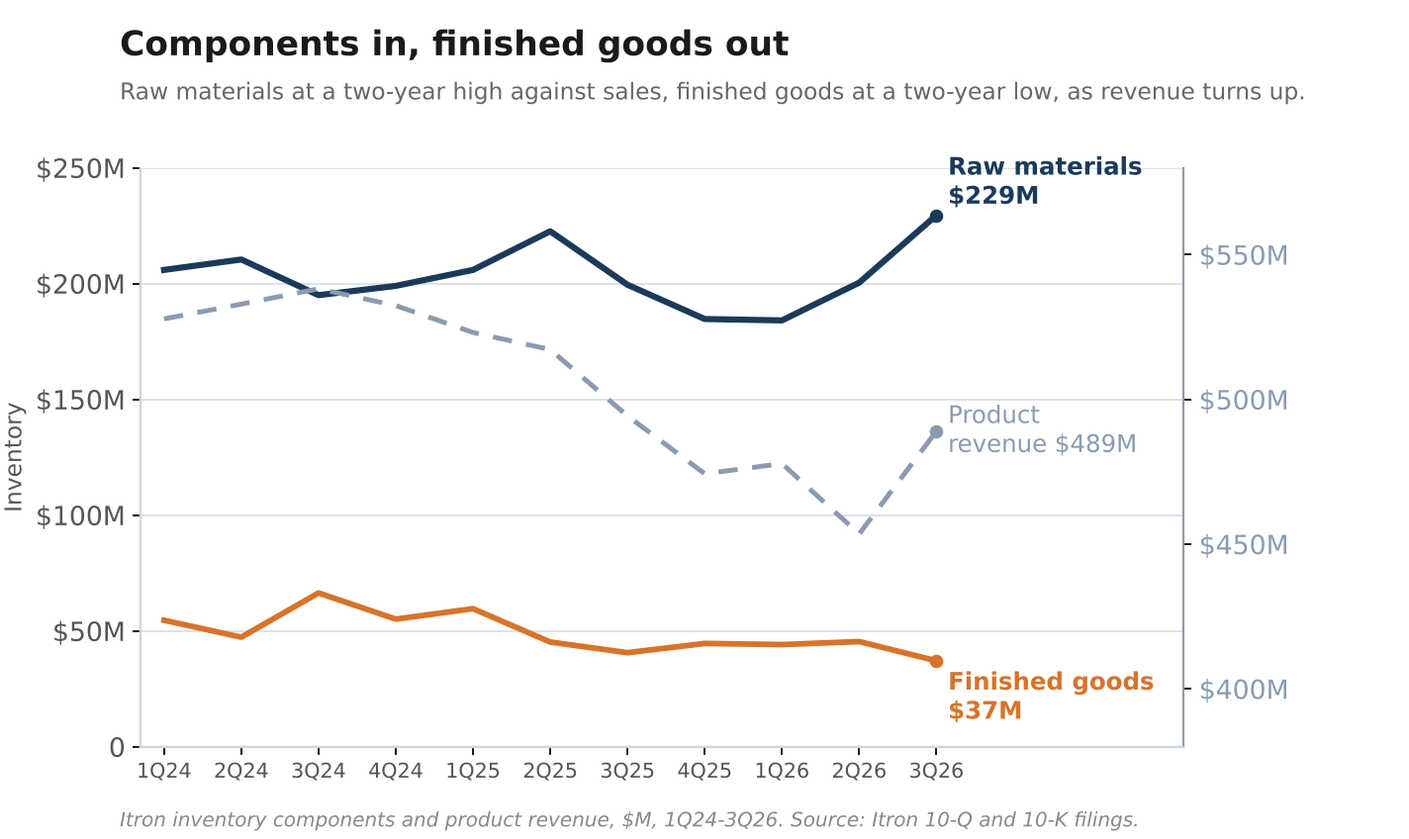
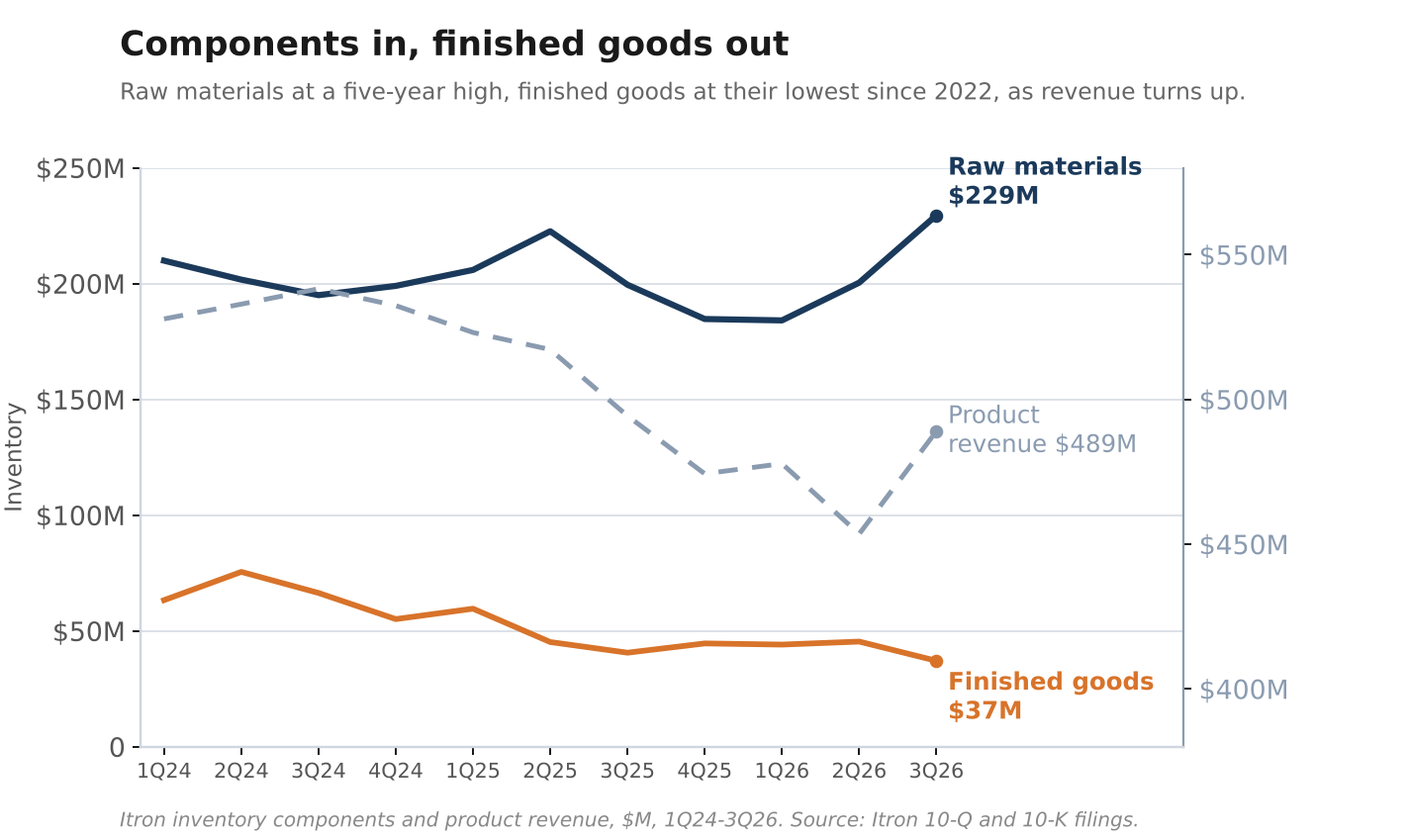
Fix factual errors and show the math in Q3 2026 reaction draft
Corrects data errors flagged against the updated FS model and makes the
quantitative claims reproducible:

- Bookings: drop the false "third-quarter record" ($487M in 3Q24, $578M
  in 3Q22 were higher); keep +27% YoY off last year's $380M.
- Q4 revenue guide $628M is the largest quarterly revenue in the dataset
  (prior peak $615M, 3Q24), not a mere recovery to mid-2025 levels.
- Finished goods $37M: lowest since 2022 (last sub-$37M was 3Q22's $35M),
  not a two-year low; note the eight-quarter revenue ramp that followed.
- Raw materials $229M: a five-year high (series max), not a two-year high.
- Q4'25 pairing: $2.46 non-GAAP EPS with 19.8% non-GAAP net margin (was
  mislabeled 17.8%, the GAAP figure).
- Margin bridge: show the weighting (Networked ~165bps, Device ~80,
  Outcomes ~15 = ~260 of 354 rate; ~90 mix from Resiliency entering).
- Q4 back-out: show EPS -> net income -> pretax -> operating income ->
  margin, and why operating margin, not net income; implied adj GM ~39%.
- Q4 GM seasonality: rose every Q4 2022-2025 (60-280bps), fell in 2021.
- S&P 500 "above 20x"; clarify Deitrich's "intelligence" = grid-smart
  layer; close on flat-YTD and the February Investor Day announcement.
- Consolidate repeated ARR paragraphs; fix broken sentences; de-slop.

Chart: fix inventory 1Q24/2Q24 raw-materials and finished-goods values
and the now-false "two-year high/low" subtitle; regenerate.

Claude-Session: https://claude.ai/code/session_013ZzK52W3csyFqMfBpd3yQg

diff --git a/charts/make_itri_charts.py b/charts/make_itri_charts.py
@@ -10,8 +10,8 @@ plt.rcParams.update({"font.family":"DejaVu Sans","font.size":12,
 
 # --- data: Itron inventory components + product revenue, $M (10-Q/10-K) ---
 q    = ["1Q24","2Q24","3Q24","4Q24","1Q25","2Q25","3Q25","4Q25","1Q26","2Q26","3Q26"]
-rawm = [205.9,210.4,195.0,199.0,205.9,222.6,199.5,184.7,184.1,200.4,229.5]
-fg   = [ 54.6, 47.3, 66.4, 55.1, 59.6, 45.2, 40.6, 44.6, 44.1, 45.4, 37.1]
+rawm = [209.9,201.7,195.0,199.0,205.9,222.6,199.5,184.7,184.1,200.4,229.5]
+fg   = [ 63.3, 75.5, 66.4, 55.1, 59.6, 45.2, 40.6, 44.6, 44.1, 45.4, 37.1]
 prod = [527.8,532.9,538.2,532.4,523.1,517.2,494.3,474.3,477.8,453.5,489.0]
 x=list(range(len(q)))
 
@@ -46,7 +46,7 @@ ax1.grid(axis="y",color=GRID,lw=0.8,zorder=0)
 
 fig.suptitle("Components in, finished goods out",fontsize=15.5,fontweight="bold",
              color=INK,x=0.085,ha="left",y=0.965)
-fig.text(0.085,0.875,"Raw materials at a two-year high against sales, finished goods at a two-year low, as revenue turns up.",
+fig.text(0.085,0.875,"Raw materials at a five-year high, finished goods at their lowest since 2022, as revenue turns up.",
          fontsize=10.5,color="#666",va="bottom")
 fig.text(0.085,0.015,"Itron inventory components and product revenue, $M, 1Q24-3Q26. Source: Itron 10-Q and 10-K filings.",
          fontsize=9,color="#888",style="italic")

diff --git a/q3-2026-reaction-draft.md b/q3-2026-reaction-draft.md
@@ -25,9 +25,9 @@ Revenue was $599 million, up 3%. ARR was $423 million, up 25%. The quarter that 
 ![ARR build](charts/itri-arr-build.png)
 *Itron's annual recurring revenue by quarter, with year-over-year growth. The Q2 slip to 21% from 28% did not become a trend. Source: Itron earnings releases, 4Q25 to 3Q26.*
 
-One honesty check on that 25%. The sequential adds have been small, $3 million in Q2 and $6 million in Q3; the large step was earlier, from $368 million at the end of 2025 to $414 million in Q1, which is largely the acquired recurring revenue of the Resiliency segment entering the base. That matters for what comes next. At $6 million of adds a quarter, reported ARR growth is about 17% in Q4, then roughly 5 to 6% through 2027, because by the first quarter the acquisitions sit in both periods and only organic growth shows. On the reported number, that is two quarters below 15% by the Q2 2027 print, and rule 1 trips, on a lap rather than a slowdown, unless the adds accelerate.
+One honesty check on that 25%. The sequential adds have been small, $3 million in Q2 and $6 million in Q3; the big step was earlier, from $368 million at the end of 2025 to $414 million in Q1, which is largely the acquired recurring revenue of the Resiliency segment entering the base. That matters for what comes next. At $6 million of adds a quarter, reported growth is about 17% in Q4, then roughly 5 to 6% through 2027, because by the first quarter the acquisitions sit in both periods and only organic growth shows. On the reported number, that puts ARR below 15% for two straight quarters by the Q2 2027 print, and my first break condition, set in August, trips.
 
-So I will say now how I grade it, because redefining a rule before it trips reads very differently from redefining one after. On the reported number, rule 1 trips at the Q2 2027 print, the second quarter below 15%. But that is the lap, not a slowdown, and stripping the acquisitions back out does not fix it, because by 2027 Resiliency is part of the organic base too. The question the rule is really asking, whether the recurring engine is decelerating, cannot be read off a comparison this distorted. So I am re-basing it now, in advance: once the Investor Day gives a segment-level ARR run-rate and a forward target, rule 1 grades on whether ARR is tracking to that target. Until those targets exist, I watch sequential adds and whether the Resiliency cross-sell has started to show. That is the clearest reason the Investor Day matters. Without the framework, the only ARR number I have is about to stop meaning anything.
+But it trips on the lap, not a slowdown, and stripping the acquisitions back out does not rescue it, because by 2027 Resiliency is part of the organic base too. The question the rule is meant to answer, whether the recurring engine is actually decelerating, cannot be read off a comparison this distorted. So I am saying now, before it trips rather than after, how I re-base it: once the Investor Day gives a segment-level ARR run-rate and a forward target, rule 1 grades on whether ARR is tracking to that target. Until those targets exist, I watch the sequential dollar adds and whether the Resiliency cross-sell has started to show. That is the clearest reason the Investor Day matters. Without the framework, the one ARR number I have is about to stop meaning anything.
 
 Adjusted EBITDA was $115 million, a 19.1% margin, a quarterly record. Non-GAAP earnings were $1.94 per share against $1.54 a year ago. The number to hold onto is not the year-over-year figure but the one against expectations: the consensus was $1.56, the mean of eight estimates on LSEG. That is a 24% beat. It is also the third of its size this year. Q1 was $1.49 against $1.25. Q2 was $1.59 against $1.29. Q3 was $1.94 against $1.56. The analysts covering this company have under-forecast it every quarter of 2026, and the misses have not gotten smaller as the year went on.
 
@@ -38,57 +38,67 @@ That record is worth more to the thesis than any single multiple, because it is 
 
 ## The headline says earnings fell
 
-Here is the number I went to the slides for. On its full-year outlook, Itron guided non-GAAP EPS to $6.72-$6.82. The company's own slide 17 describes the midpoint as "down $0.36 or 5% vs 2025," and then, on the next line, "Normalized for tax rate and interest income, up $0.81 or 14% at the midpoint." Both sentences are management's. The fourth-quarter slide says the same thing louder: $1.70-$1.80 is "down $0.71 or 29% vs Q4 2025," and normalized, "up $0.14 or 9%."
+Here is the number I went to the slides for. On its full-year outlook, Itron guided non-GAAP EPS to $6.72-$6.82. The company's own slide 17 describes the midpoint as "down $0.36 or 5% vs 2025," and then, on the next line, "Normalized for tax rate and interest income, up $0.81 or 14% at the midpoint." The fourth-quarter slide says the same thing louder: $1.70-$1.80 is "down $0.71 or 29% vs Q4 2025," and normalized, "up $0.14 or 9%."
 
-Two things sit between the headline and the operating business. The first is tax. The 2025 base of $7.13 carried a fourth-quarter tax benefit; 2025 Q4 earnings were $2.46 a share, on a net margin of 17.8%, higher than any operating quarter around it. The second is interest income, and it is the more interesting of the two. It fell from $13.6 million in Q3 2025 to $7.2 million this quarter, a $6.4 million drop, because the company spent its cash balance on Urbint and Locusview. Those are the acquisitions that built the Resiliency segment, the one printing 74% gross margins. So the line depressing the reported earnings is the same decision that added the recurring revenue. That also makes management's 14% a touch generous: it adds the interest income back while keeping the earnings the cash was spent to buy. The direction holds even after that. Hooper walked the bridge on the call (Joan Hooper, Q3 2026 earnings call, October 27, 2026): operating income added $0.38 a share, interest income subtracted $0.14, and taxes and share count added $0.16. The operating line did the work, against an interest-income drag the company chose.
+Two things sit between the headline and the operating business. The first is tax. The 2025 base of $7.13 carried a fourth-quarter tax benefit; 2025's fourth-quarter non-GAAP earnings were $2.46 a share, a 19.8% net margin, higher than any operating quarter around it. The second is interest income, and it is the more interesting of the two. It fell from $13.6 million in Q3 2025 to $7.2 million this quarter, a $6.4 million drop, because the company spent its cash balance on Urbint and Locusview. Those are the acquisitions that built the Resiliency segment, the one printing 74% gross margins. So the line depressing the reported earnings is the same decision that added the recurring revenue. That also makes management's 14% a touch generous: it adds the interest income back while keeping the earnings the cash was spent to buy. Dock it for that and the normalized number is smaller, but it is still growth, not the decline the headline shows. Hooper walked the year-over-year bridge on the call (Joan Hooper, Q3 2026 earnings call, October 27, 2026): operating income added $0.38 a share, interest income subtracted $0.14, and taxes and share count added $0.16. That bridge runs this September quarter against last, a different comparison from the full-year tax step-down above, so the tax line helps here rather than hurts. Either way the operating line did the work, against an interest-income drag the company chose.
 
 ![EPS bridge](charts/itri-eps-bridge.png)
 *Itron's non-GAAP EPS year-over-year bridge: operating income added $0.38, interest income subtracted $0.14, taxes and share count added $0.16. Source: Itron Q3 2026 earnings presentation, slide 10.*
 
-Now set it against what the Street was carrying. The consensus full-year estimate going into the print was $6.37, which is 10.7% below 2025. The sell-side was modeling a double-digit earnings decline. The guided midpoint of $6.77 is not just above that mean; it is above the prior high estimate on the sheet, $6.72. The entire guided range sits at or above where the single most bullish analyst had been. A company does not clear the top of the distribution on a quarter the market reads as a decline unless the market is reading the wrong line.
+Now set it against what the Street was carrying. The consensus full-year estimate going into the print was $6.37, which is 10.7% below 2025. The sell-side was modeling a double-digit earnings decline. The guided midpoint of $6.77 is not just above that mean; it is above the prior high estimate on the sheet, $6.72. The entire guided range sits at or above where the single most bullish analyst had been. The analysts are not missing the operating story; they can read the margin and mix shift in the same statements I can. What they will not do yet is underwrite it forward, so their models stay tethered to the hardware P&L, and a guide driven by the operating line keeps clearing the top of them.
 
 ## Where the margin came from
 
 Adjusted gross margin was 41.3%, up 350 basis points. The release credits "favorable mix and operational efficiencies." I split the move two ways to see which.
 
-By revenue line, both halves got more profitable. Product gross margin rose from 32.6% to 38.1% over the last two years. Service gross margin, the recurring software and analytics line, rose from 43.9% to 53.2%, and from 50.9% a year ago. So the services the thesis rests on are not only growing as a share of revenue, from 12.5% to 18.4%; they earn more on each dollar than they used to. A mix-only story misses that second part.
+By revenue line, both halves got more profitable. Product gross margin rose from 32.6% to 38.1% over the last two years. Service gross margin, the recurring software and analytics line, rose from 43.9% to 53.2%, and from 50.9% a year ago. So the services the thesis rests on are not only growing as a share of revenue, from 12.5% to 18.4%; they earn more on each dollar than they used to. Credit only the mix, more services in the blend, and you miss that second part: the services themselves earn more per dollar than they did two years ago. Both halves improved.
 
-By segment, the hardware did most of the lifting this quarter, because it is most of the revenue. Device Solutions gross margin rose 450 basis points and Networked Solutions 250, and those two segments are about 80% of the company. Weighting the four segments, roughly 260 of the 350 basis points came from each segment earning more on its own revenue, most of it from the two hardware segments, since they are the bulk of the sales. Resiliency, the 74% gross-margin software segment, added about 90 on mix. The hardware getting cheaper to build and better priced has run alongside the software line getting more profitable for two years, and both are in this quarter.
+By segment, the hardware did most of the lifting this quarter, because it is most of the revenue. Here is the arithmetic. Take each segment's gross-margin gain and weight it by that segment's share of revenue. Networked Solutions, about two-thirds of the company, saw gross margin rise about 2.5 points; two-thirds of 2.5 is roughly 165 basis points. Device Solutions, about a sixth of revenue, rose about 4.5 points; a sixth of 4.5 is about 80. Outcomes adds another 15 or so. Those within-segment gains sum to about 260 of the 354 basis points, and almost all of it is the two hardware segments, which are about 80% of the company between them. The remaining ~90 is mix: Resiliency, the 74% gross-margin software segment, entering the revenue base this year at under 3% weight, which pulls the blended average up on its own. So the quarter's margin story is roughly three-quarters hardware getting more profitable to build and sell, one-quarter the software mix.
 
-The one new risk sits in that hardware half. Deitrich, same call: "Memory and selected component costs are rising, and we have kept pace with them as third quarter gross margin demonstrates." The memory shortage that has Micron reporting 87% gross margins is a cost on Itron's bill of materials now. Memory is a small part of what goes into a meter, and they offset it this quarter with pricing and buffering. But it is the line that can stall the hardware side of the margin, and it is the number I am waiting on in Q4, which I come to below.
+The one new risk sits in that hardware half. Deitrich, same call:
+
+> Memory and selected component costs are rising, and we have kept pace with them as third quarter gross margin demonstrates.
+
+The memory shortage that has Micron reporting 87% gross margins is a cost on Itron's bill of materials now. Memory is a small part of what goes into a meter, and they offset it this quarter with pricing and buffering. But it is the line that can stall the hardware side of the margin, and it is the number I am waiting on in Q4, which I come to below.
 
 ## Bookings, and the quarter the guide is hiding
 
-Bookings were $482 million, a third-quarter record, up 27%. Book-to-bill was 0.80, which reads soft until you see it is a record bookings number divided by a higher revenue number; on a trailing-twelve-month basis it is 0.97. The fourth quarter is the peak quarter for orders: bookings were $1,403 million in Q4 2024 and $737 million in Q4 2025. Deitrich said October is "off to a really nice start," the kind of line management always offers, so I weight the pattern in the data rather than the sentence.
+Bookings were $482 million, up 27% year over year. That is not a third-quarter record, the third quarters of 2024 and 2022 were higher at $487 million and $578 million, but it is a sharp rebound off last year's $380 million. Book-to-bill was 0.80, which reads soft until you remember the denominator: bookings up 27% against a revenue base that also rose. On a trailing-twelve-month basis book-to-bill is 0.97, essentially balanced. The fourth quarter is the peak quarter for orders: bookings were $1,403 million in Q4 2024 and $737 million in Q4 2025. Deitrich said October is "off to a really nice start." I would not lean on a line like that on its own; the reason to expect a strong Q4 is in that history, not the adjective.
 
-The part of the guide worth reading closely is the margin it implies. Fourth-quarter EPS of $1.70-$1.80 on revenue up about 5% sequentially backs out to roughly a 15.5% operating margin, down from 17.8% this quarter. That back-out assumes the Q3 tax rate and interest income hold; move either and the implied margin shifts. For a margin to fall while revenue rises, either operating expense jumps or gross margin gives back. Operating expense does step up in Q4 every year: last year it rose about $12 million from Q3, to $142 million, for the customer event and the sales compensation on the big bookings quarter. Apply the same $12 million step to this year's $141 million, and the operating income the guide implies still leaves adjusted gross margin near 40%, down from 41.3% this quarter. That is a gross-margin decline in a quarter where margin has risen every year since 2021, by 60 to 280 basis points. So the guide is not merely conservative on operating expense; it needs a gross-margin drop the calendar says is unlikely. Either they are sandbagging, as they did the last three quarters, the component costs are finally arriving, or a hardware-heavy shipment quarter pulls the blend down through mix.
+The part of the guide worth reading closely is the margin it implies, so let me walk it, because the step people skip is why I look at operating margin rather than the headline EPS. Start with the $1.75 midpoint. At about 44.4 million diluted shares, that is roughly $78 million of non-GAAP net income. But net income sits below two lines that have nothing to do with how well Itron builds and sells meters, tax and interest, so it is the wrong altitude to read the operation. Climb back above them. Gross the $78 million up for tax at this quarter's roughly 18% non-GAAP rate and you get about $95 million of pretax income; strip out the small net interest and you are left with about $94 million of operating income. On $628 million of revenue, that is roughly a 15% operating margin, down from 17.8% this quarter. The back-out moves with the tax and interest assumptions; hold those, and the operation is what is left.
+
+Now the question is whether that implied squeeze lands on spending or on gross margin, which is one more step. Operating income is gross profit minus operating expense. Operating expense, adjusted, steps up every fourth quarter for the customer conference and the sales compensation on the big bookings quarter, both period costs with nothing to do with the product; it rose about $12 million from Q3 to Q4 in each of the last two years, to $142 million last year off a $130 million third quarter. Apply the same $12 million step to this year's $141 million, and Q4 adjusted operating expense is about $153 million. Add that back to the $94 million of operating income and implied gross profit is about $247 million, an adjusted gross margin near 39%, down from 41.3% this quarter. That is a gross-margin decline in a quarter where gross margin has risen from Q3 to Q4 in each of the last four years, 2022 through 2025, by 60 to 280 basis points; it last fell in 2021. So the guide is not merely conservative on spending; it needs a gross-margin drop the calendar says is unlikely. Either they are sandbagging, as they did the last three quarters, the component costs are finally arriving, or a hardware-heavy shipment quarter pulls the blend down through mix.
 
 That is the symmetry that keeps the call honest. The one way the guide is not conservative is if gross margin does fall for the first time since 2021, and the segment detail tells me which of those three it is. The Q4 gross-margin line, read with the mix, is the number I am waiting on.
 
 ## What a 14-times multiple is paying for
 
-At about $94, on this year's guided EPS of $6.77, Itron trades about 14 times. The S&P 500 trades near 20 times earnings. Over the last decade Itron's multiple has averaged a small premium to the market; against the market's 20 it now sits about 30% below. Leave the software-valuation argument aside for a moment, because this part does not need it.
+At about $94, on this year's guided EPS of $6.77, Itron trades about 14 times. The S&P 500 trades above 20 times earnings. Over the last decade Itron's multiple has averaged a small premium to the market; it now sits at least a third below it. Leave the software-valuation argument aside for a moment, because this part does not need it.
 
-Deitrich, on the call, called the investment utilities have to make "in our view, inevitable," and said "intelligence is the fastest and least expensive capacity still available." Take that at face value and the question writes itself: why does a company in front of a demand build it calls inevitable trade at a no-growth multiple? The honest answer is that revenue went sideways for two years while management called demand strong. It was $615 million in the third quarter of 2024 and $599 million now. The large conversions have always been described as ahead. On gas, this quarter, Deitrich: "It has not yet shown itself in the bookings and the P&L in any significant way. That's still ahead of us." So the market is not asleep. It has heard "inevitable" for eight quarters and is waiting to see the revenue before it pays for it. Two flat years earned that discount.
+Deitrich, on the call, called the investment utilities have to make "in our view, inevitable," and said "intelligence is the fastest and least expensive capacity still available." By intelligence he means the grid-smart layer Itron sells, the meters, sensors and software that let a utility pull more out of the wires it already has instead of building new generation; the claim is that squeezing the existing grid is quicker and cheaper than new power plants. Take that at face value and the question writes itself: why does a company in front of a demand build it calls inevitable trade at a no-growth multiple? The honest answer is that revenue went sideways for two years while management called demand strong. It was $615 million in the third quarter of 2024 and $599 million now. The large conversions have always been described as ahead. On gas, this quarter, Deitrich:
 
-What changed this quarter is that the revenue showed up in the guide, not just the pipeline. Fourth-quarter revenue is guided up 10% year over year at the midpoint. Some of that rate is an easy comparison against last year's trough of $572 million, and the guided dollar figure is really a recovery: at $628 million it is the first quarter back above where revenue sat in the middle of 2025, not a breakout past it. The direction turned, and the inventory backs the clean part of it. Finished goods fell to $37 million, a two-year low, which is not what a company sitting on product it cannot sell looks like. Raw materials rose 14% to a two-year high against sales, though I read some of that as buffering against the memory shortage Deitrich described rather than pure demand. Bookings were a record, and Deitrich named live deployments in the Caribbean, the Southeast and the Northeast behind the growth. None of that requires a software framework or an investor day. If Q4 prints up 10% and February's 2027 guide carries a growth number instead of a flat one, the premise under the 14 times, that this is an ex-growth business, breaks on the earnings alone. That is a re-rating that can come before the one I have been writing about, and on plainer evidence.
+> It has not yet shown itself in the bookings and the P&L in any significant way. That's still ahead of us.
+
+So the market is not asleep. It has heard "inevitable" for eight quarters and is waiting to see the revenue before it pays for it. Two flat years earned that discount.
+
+What changed this quarter is that the revenue showed up in the guide, not just the pipeline. Fourth-quarter revenue is guided up 10% year over year at the midpoint. Some of that rate is an easy comparison against last year's $572 million fourth quarter, the low of the slump. But the dollar figure is not just a recovery: at $628 million it would be the largest quarterly revenue in the five years of data I have, past the prior high of $615 million in the third quarter of 2024. The guide does not take revenue back to where it was; it takes it higher than it has ever been. The inventory backs the clean part of it. Finished goods fell to $37 million, their lowest since 2022, which is not what a company sitting on product it cannot sell looks like, and the last time they were this lean, in the third quarter of 2022, revenue then climbed for eight straight quarters. Raw materials rose 15% to $229 million, the highest in the five years of data I have, though I read some of that as buffering against the memory shortage Deitrich described rather than pure demand. Bookings rose 27%, and Deitrich named live deployments in the Caribbean, the Southeast and the Northeast behind the growth. None of that requires a software framework or an investor day. If Q4 prints up 10% and February's 2027 guide carries a growth number instead of a flat one, the premise under the 14 times, that this is an ex-growth business, breaks on the earnings alone. That is a re-rating that can come before the one I have been writing about, and on plainer evidence.
 
 ![Inventory](charts/itri-inventory.png)
-*Itron inventory components and product revenue. Raw materials at a two-year high against sales, finished goods at a two-year low, as revenue turns up. Source: Itron 10-Q and 10-K filings, 1Q24 to 3Q26.*
+*Itron inventory components and product revenue. Raw materials at a five-year high, finished goods at their lowest since 2022, as revenue turns up. Source: Itron 10-Q and 10-K filings, 1Q24 to 3Q26.*
 
-The software version of the case still stands. Value Itron's hardware at one times its trailing product revenue, about $1.9 billion, a cheap price for a meter maker, and the rest of the enterprise value is roughly $3.0 billion on the recurring layer, about 7 times the $423 million of ARR. Software businesses that grow the way this line does trade well above ten. The fuller build is in earlier posts. For a same-industry contrast, Badger Meter, a water-meter company with its own software and services layer, trades at 32 times earnings against Itron's 14. The market will pay a premium multiple for a meter company. It has just decided it needs the framework first, and the framework has a date on it now.
+The software version of the case still stands. Value Itron's hardware at one times its trailing product revenue, about $1.9 billion, a cheap price for a meter maker, and the rest of the enterprise value, roughly $3.0 billion, is what the market is implicitly paying for the recurring layer: about 7 times its $423 million of ARR. A recurring-revenue line growing 25% does not trade at 7 times anywhere else; software peers trade in the teens and higher. The fuller build is in earlier posts. For a same-industry contrast, Badger Meter, a water-meter company with its own software and services layer, trades at 32 times earnings against Itron's 14. The market will pay a premium multiple for a meter company. It has just decided it needs the framework first, and the framework now has a timetable: 2027 guidance on the February call, and the segment targets at an investor day I expect around March.
 
 ## The ledger
 
 Rules 1 to 5 carry forward from my August 3 post, word for word.
 
-1. ARR growth decelerating below 15% YoY for two consecutive quarters. Set August 3, 2026. Action: exit review. Not triggered, and here I am re-basing it in advance. Reported ARR is 25%, but it laps below 15% in 2027 on the acquisition comparison, not a slowdown, and by then Resiliency is in the organic base, so the written test would trip on an artifact. Once the Investor Day gives a segment-level ARR run-rate and target, rule 1 grades on whether ARR is tracking to that target. Until then I watch sequential adds and the cross-sell.
+1. ARR growth decelerating below 15% YoY for two consecutive quarters. Set August 3, 2026. Action: exit review. Not triggered, and here I am re-basing it in advance. Reported ARR is 25%, but it laps below 15% in 2027 on the acquisition comparison, not a slowdown, and by then Resiliency is in the organic base, so the written test would trip on the acquisition math, not on the business. Once the Investor Day gives a segment-level ARR run-rate and target, rule 1 grades on whether ARR is tracking to that target. Until then I watch sequential adds and the cross-sell.
 
 2. Net debt above 5.0x EBITDA on any reported quarter. Set August 3, 2026. Action: exit review. Not triggered. 1.9x.
 
 3. Investor Day delayed beyond Q1 2027 extends the thesis; it does not end it. Set August 3, 2026. Action: extend, not exit. Not triggered. Expected around March 2027, after the Resiliency integration completes in early January; 2027 guidance comes on the February call.
 
-4. Book-to-bill below 0.8x for two consecutive quarters with simultaneous pipeline contraction, pipeline itself declining, not soft bookings against a growing pipeline. Set August 3, 2026. Action: exit review. Not triggered. Quarterly book-to-bill 0.80x, at the line, not below it, and one quarter; trailing 0.97x; pipeline growing and bookings a record.
+4. Book-to-bill below 0.8x for two consecutive quarters with simultaneous pipeline contraction, pipeline itself declining, not soft bookings against a growing pipeline. Set August 3, 2026. Action: exit review. Not triggered. Quarterly book-to-bill 0.80x, at the line, not below it, and one quarter; trailing 0.97x; pipeline growing and bookings up 27%.
 
 5. Management publicly characterising the margin improvement as temporary or cyclical rather than structural. Set August 3, 2026. Action: immediate exit. Not triggered. Deitrich called it "structural" and "not an industrial cycle," Q3 2026 call, October 27, 2026.
 
@@ -96,7 +106,7 @@ What re-rates Itron first: the Investor Day framework, or the revenue inflecting
 
 ## Close
 
-The stock dipped to $85.25 around midday, then closed at $94.55, up 7.77%. The morning traded the headline: full-year earnings that screen down 5%, and a Q4 EPS line that screens down 29%. The afternoon traded the second line on the slide, and the quarter underneath it. I added this morning. But $94.55 is still about 14 times this year's earnings, back to where the stock sat in September and about a third below its price a year ago. The day repriced the beat. It did not re-rate the business. That comes on one call in February: Q4 gross margin, for whether the component cycle is biting, and the 2027 guide, for whether the growth is real. I'm holding for both.
+The stock dipped to $85.25 around midday, then closed at $94.55, up 7.77%. The morning traded the headline: full-year earnings that screen down 5%, and a Q4 EPS line that screens down 29%. The afternoon traded the second line on the slide, and the quarter underneath it. I added this morning. But $94.55 is still about 14 times this year's earnings, and even after a 7.77% day the stock is essentially flat on the year. The day repriced the beat. It did not re-rate the business. That comes on one call in February: the Q4 gross margin, for whether the component cycle is biting; the 2027 guide, for whether the growth is real; and, if the 2024 precedent holds, the Investor Day announcement itself, the framework I have been waiting for. I'm holding for all three.
 
 ---
 
